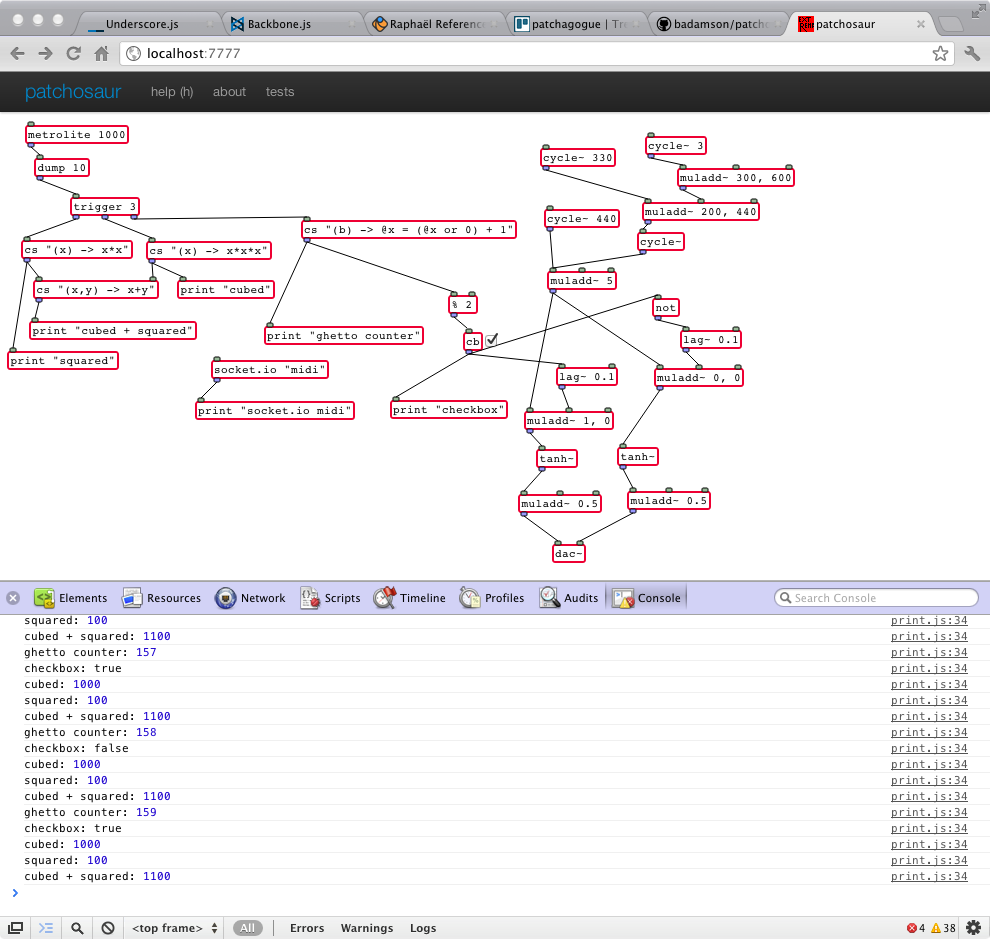
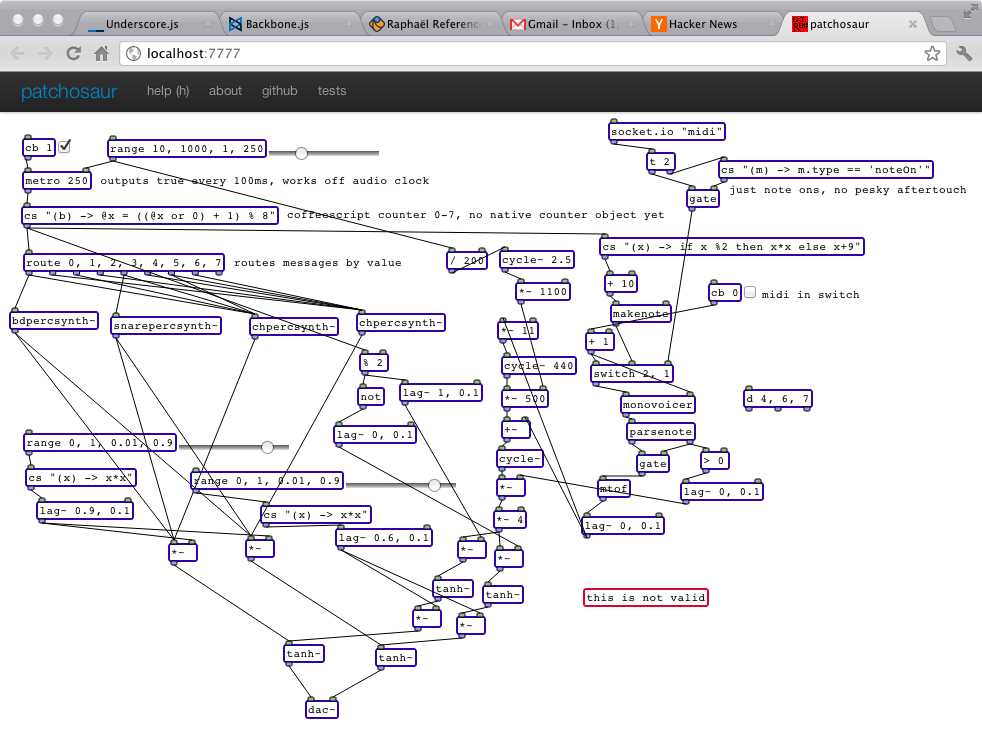
updated help and demo image, video

diff --git a/README.md b/README.md
@@ -1,11 +1,14 @@
 # patchosaur
 
-patchosaur is a Max/MSP- and puredata-like patching environment written in coffeescript that runs in a browser. It supports audio and MIDI. All of the audio is synthesized in real time in javascript by [audiolet](https://github.com/oampo/Audiolet). It's a buggy work in progress and not usable yet, but it can do some cool things.
+patchosaur is a [Max/MSP](http://en.wikipedia.org/wiki/Max_\(software\))- and [puredata](http://en.wikipedia.org/wiki/Pure_Data)-like patching environment that runs in a browser. It supports audio and MIDI. All of the audio is synthesized in real time in javascript by [audiolet](https://github.com/oampo/Audiolet). It's a buggy work in progress and not usable yet, but it can do some cool things.
 
-* code on github: https://github.com/badamson/patchosaur/
+* on github: https://github.com/badamson/patchosaur/
 * http://patchosaur.org
+* demo video: http://www.youtube.com/watch?v=V7c3XwabUKM
 
 ![demo patchosaur patch](https://github.com/badamson/patchosaur/raw/master/public/img/demo-patch.png)
+
+<iframe id="ytplayer" type="text/html" width="640" height="390" src="http://www.youtube.com/embed/V7c3XwabUKM" frameborder="0"/>
 
 ## Installing dependencies to run locally
 
@@ -62,7 +65,7 @@ rake -T
 
 ## Making Patches
 
-Press 'h' to toggle help. Double click to create a new object or to edit an existing one. To connect an inlet to and outlet, click an outlet (it should pulse), then click the inlet. To move an object, drag it.
+Press 'h' to toggle help. Double click to create a new object or to edit an existing one. To connect an inlet to and outlet, click an outlet (it should pulse), then click the inlet. To move an object, drag it. To create a comment, create an object starting with `c`, like `c "this is a comment"`.
 
 To remove an object or patchcord:
 
@@ -77,11 +80,11 @@ No real document support. After the app loads, the patch `documents/testDoc.json
 
 Units that have audio inputs or outputs have a tilde suffix (`*~`, `cycle~`). Some of them do not work yet (any with multiple outputs, buffer stuff, callbacks). Most of them are directly wrapped from Audiolet. See the sections "DSP" and "Operators" in the [Audiolet API Documentation](http://oampo.github.com/Audiolet/api.html) for argument and inlet specifications.
 
-For example, in the Audiolet API Documentation, under "DSP", the Lag constructor takes 3 arguments: audiolet, initial value (default 0), and lag time (default 1). The first argument, audiolet, is passed for you. Arguments (initial value, lag time) can be optionally passed as patchosaur arguments: `lag~ 0.5, 0.1`. The inputs in the documentation are value and lag time. You can make patchcord connections audio inputs from audio outputs, and to parameters from function inputs.
+For example, in the Audiolet API Documentation, under "DSP", the Lag constructor takes 3 arguments: audiolet, initial value (default 0), and lag time (default 1). The first argument, audiolet, is passed for you. Arguments (initial value, lag time) can be optionally passed as patchosaur arguments: `lag~ 0.5, 0.1`. The inputs in the documentation are value and lag time. You can make patchcord connections to audio inputs from audio outputs, and to audiolet parameters from function inputs.
 
 ### Conventions
 
-* object outlets are always called in right to left order, depth first, exactly like in Max or PD.
+* object outlets are always called in right to left order, depth first, exactly as in Max or PD.
   * see [Max docs](http://cycling74.com/docs/max5/tutorials/max-tut/basicchapter05.html)
   * see [PD docs](http://crca.ucsd.edu/~msp/Pd_documentation/x2.htm)
 * The leftmost inlet is "hot", other inlets do not result in output (with a few exceptions)
@@ -104,7 +107,7 @@ Play with it, [submit an issue](https://github.com/badamson/patchosaur/issues), 
 
 ### Writing Units
 
-Units are little programs that can be connected by object patchcords. They are all defined [here](https://github.com/badamson/patchosaur/tree/master/assets/js/units), where there are many examples. To add a unit, define a class in the units directory that extends `patchosaur.Unit`, add a `setup` method, and then register it: `patchosaur.units.add MyUnit`.
+Units are little programs that can be connected by patchcords. They are all defined [here](https://github.com/badamson/patchosaur/tree/master/assets/js/units), where there are many examples. To add a unit, define a class in the units directory that extends `patchosaur.Unit`, add a `setup` method, and then register it: `patchosaur.units.add MyUnit`.
 
 Units can change model attributes during setup, which will be reflected in the ui view:
 
@@ -122,7 +125,7 @@ They can also expose attributes that do stuff:
 
 They should name themselves in a class variable (see [examples](https://github.com/badamson/patchosaur/blob/master/assets/js/units), `@names = ['spigot', 'gate']`).They can read arguments from the model (`@objectModel.get 'unitArgs'`), which is an array. When an object is created, everything before the first space is set as `unitClass`, which is used to look up a unit by name, and everything after is surrounded by square brackets and parsed as JSON. `route 1, 4, 5`'s args become [1, 4, 5], while `route 1 4 5` fails to parse.
 
-#### Documenting objects
+#### Documenting units
 
 In addition to setting `names` as a class variable, units can set `tags` and `help`. This doesn't do anything yet, but in the future it will show in help (press 'h' to show, right now just displays a list of units).
 
@@ -162,131 +165,132 @@ In addition to setting `names` as a class variable, units can set `tags` and `he
 * Undo support (backbone.memento?), would be nice if it worked with browser back button
 * Easy patchosaur units in faust would be awesome. [faust](http://faust.grame.fr/) compiles to js, maybe add audiolet architecture files to faust? See [this article](http://faust.grame.fr/index.php/7-news/73-faust-web-art).
 
-## List of current objects
+## List of current units
 
 Many of these are not working, and the list is probably out of date. The list is copied from the in-app help (press 'h')
 
-* metrolite
-* print
-* gate
-* spigot
-* exp
-* atan
-* sqrt
-* asin
-* min
-* log
-* acos
-* ceil
-* max
-* round
-* sin
-* atan2
-* floor
-* abs
-* cos
-* tan
-* random
-* pow
-* +
-* -
-* /
-* *
-* %
-* &
-* |
-* ^
-* ~
-* <<
-* >>
-* >>>
-* ==
-* !=
-* >
-* <
-* >=
-* <=
-* &&
-* and
-* ||
-* or
-* !
-* not
-* log2
-* log10
-* atodb
-* dbtoa
-* mtof
-* ftom
-* rtanh
-* dump
-* route
-* socket.io
-* monovoicer
-* cs
-* trigger
-* t
-* null
-* identity
-* adc~
-* in~
-* dac~
-* out~
-* cycle~
-* triangle~
-* saw~
-* square~
-* pulse~
-* noise~
-* envelope~
-* adsr~
-* perc~
-* bufferplayer~
-* gain~
-* pan~
-* upmixer~
-* xfade~
-* linerxfade~
-* limiter~
-* biquad~
-* lpf~
-* hpf~
-* bpf~
-* brf~
-* apf~
-* dcblock~
-* lag~
-* delay~
-* fbdelay~
-* comb~
-* dampcomb~
-* reverb~
-* reverbb~
-* softclip~
-* bitcrusher~
-* amp~
-* discontinuity~
-* badvalue~
-* triggercontrol~
-* add~
-* +~
-* subtract~
-* -~
-* multiply~
-* *~
-* divide~
-* /~
-* modulo~
-* %~
-* reciprocal~
-* muladd~
-* *+~
-* tanh~
-* bdpercsynth~
-* snarepercsynth~
-* chpercsynth~
-* snapshot~
-* metro
-* range
-* checkbox
-* cb
+* `cycle~`
+* `triangle~`
+* `saw~`
+* `square~`
+* `pulse~`
+* `noise~`
+* `envelope~`
+* `adsr~`
+* `perc~`
+* `bufferplayer~`
+* `gain~`
+* `pan~`
+* `upmixer~`
+* `xfade~`
+* `linerxfade~`
+* `limiter~`
+* `biquad~`
+* `lpf~`
+* `hpf~`
+* `bpf~`
+* `brf~`
+* `apf~`
+* `dcblock~`
+* `lag~`
+* `delay~`
+* `fbdelay~`
+* `comb~`
+* `dampcomb~`
+* `reverb~`
+* `reverbb~`
+* `softclip~`
+* `bitcrusher~`
+* `amp~`
+* `discontinuity~`
+* `badvalue~`
+* `triggercontrol~`
+* `add~`
+* `+~`
+* `subtract~`
+* `-~`
+* `multiply~`
+* `*~`
+* `divide~`
+* `/~`
+* `modulo~`
+* `%~`
+* `reciprocal~`
+* `muladd~`
+* `*+~`
+* `tanh~`
+* `bdpercsynth~`
+* `snarepercsynth~`
+* `chpercsynth~`
+* `dac~`
+* `out~`
+* `cs`
+* `dump`
+* `d`
+* `gate`
+* `spigot`
+* `identity`
+* `makenote`
+* `cos`
+* `random`
+* `pow`
+* `tan`
+* `atan2`
+* `floor`
+* `log`
+* `abs`
+* `min`
+* `max`
+* `ceil`
+* `asin`
+* `exp`
+* `sqrt`
+* `atan`
+* `sin`
+* `round`
+* `acos`
+* `+`
+* `-`
+* `/`
+* `*`
+* `%`
+* `&`
+* `|`
+* `^`
+* `~`
+* `<<`
+* `>>`
+* `>>>`
+* `==`
+* `!=`
+* `>`
+* `<`
+* `>=`
+* `<=`
+* `&&`
+* `and`
+* `||`
+* `or`
+* `!`
+* `not`
+* `log2`
+* `log10`
+* `atodb`
+* `dbtoa`
+* `mtof`
+* `ftom`
+* `rtanh`
+* `metro`
+* `metrolite`
+* `monovoicer`
+* `null`
+* `parsenote`
+* `print`
+* `route`
+* `socket.io`
+* `switch`
+* `trigger`
+* `t`
+* `checkbox`
+* `cb`
+* `range`
